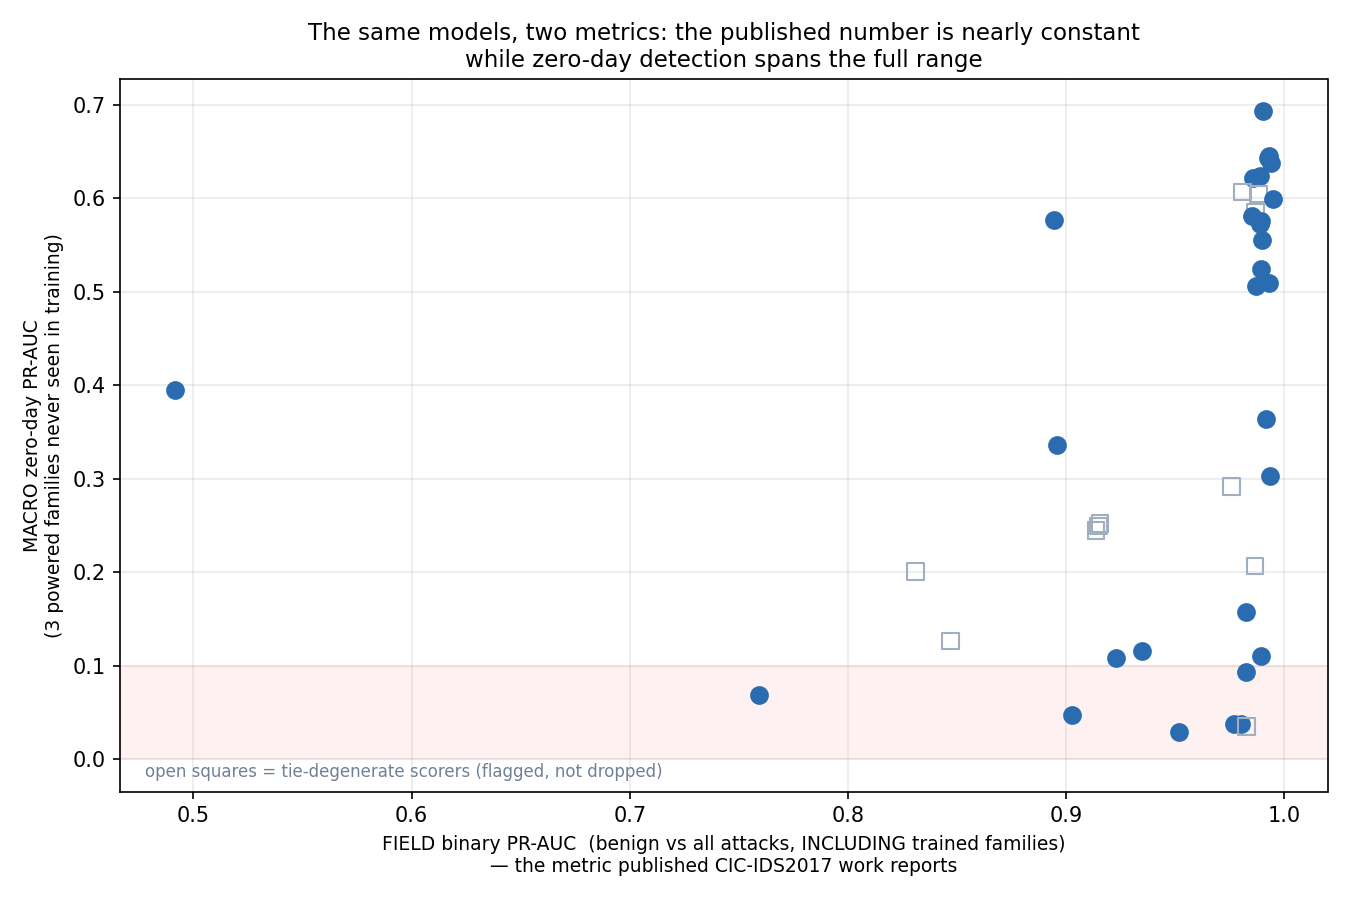
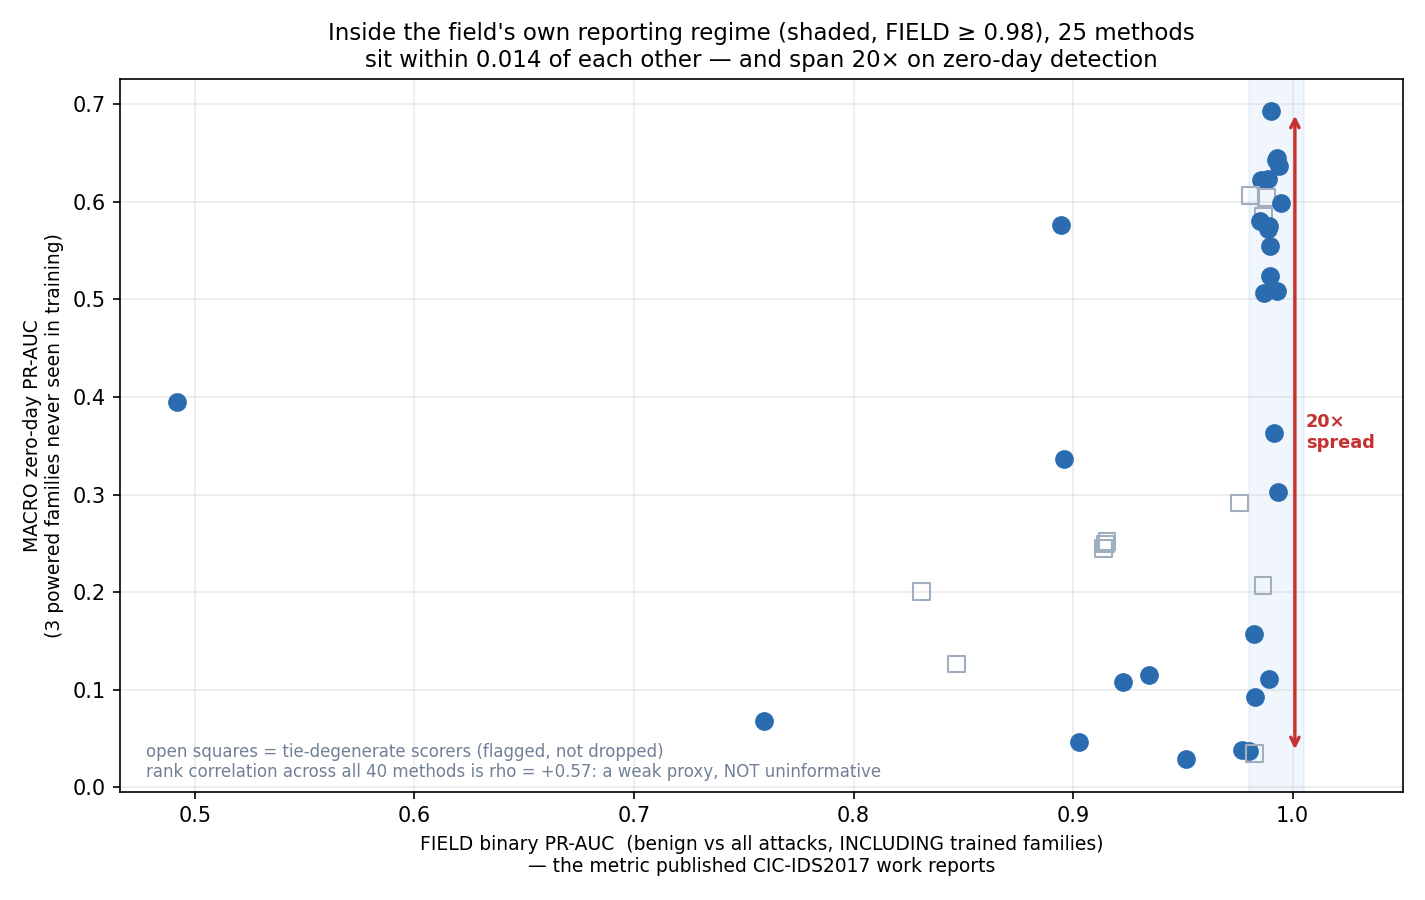
fix(spine): scope the figure to the field's own reporting regime
The previous title claimed 'the published number is nearly constant' while the x-axis
ran to 0.49 -- true of the shaded cluster, overclaimed across the whole plot. Now the
figure marks the regime the literature actually publishes in (FIELD >= 0.98) and states
what is true of it: 25 methods within 0.014 of each other, spanning 20x on zero-day.

The rho = +0.57 caveat is printed on the figure itself, so the plot cannot be lifted
into a talk without the limit that says it is a weak proxy rather than uninformative.

diff --git a/scripts/field_gap.py b/scripts/field_gap.py
@@ -279,21 +279,41 @@ def _figure(table):
         print(f"  (figure skipped: {e})")
         return
 
-    fig, ax = plt.subplots(figsize=(9, 6))
+    fig, ax = plt.subplots(figsize=(9.5, 6))
+
+    # The argument is about the regime the literature actually publishes in, so
+    # mark it rather than letting the eye average over anomaly scorers that never
+    # claim 99% in the first place.
+    CLUB = 0.98
+    ax.axvspan(CLUB, 1.005, color="#3182ce", alpha=0.07, zorder=0)
+    inside = [d for d in table if d["field"] >= CLUB]
+    if inside:
+        lo = min(d["macro"] for d in inside)
+        hi = max(d["macro"] for d in inside)
+        ax.annotate("", xy=(1.001, hi), xytext=(1.001, lo),
+                    arrowprops=dict(arrowstyle="<->", color="#c53030", lw=1.6))
+        ax.text(1.006, (lo + hi) / 2, f"{hi/max(lo,1e-9):.0f}×\nspread",
+                fontsize=8.5, color="#c53030", va="center", ha="left", weight="bold")
+
     for d in table:
         deg = d["tie_degenerate"]
         ax.scatter(d["field"], d["macro"], s=64,
                    facecolor="none" if deg else "#2b6cb0",
                    edgecolor="#a0aec0" if deg else "#2b6cb0",
                    marker="s" if deg else "o", zorder=3)
-    ax.axhspan(0, 0.1, color="#e53e3e", alpha=0.07, zorder=0)
+
     ax.set_xlabel("FIELD binary PR-AUC  (benign vs all attacks, INCLUDING trained families)\n"
                   "— the metric published CIC-IDS2017 work reports", fontsize=9)
     ax.set_ylabel("MACRO zero-day PR-AUC\n(3 powered families never seen in training)", fontsize=9)
-    ax.set_title("The same models, two metrics: the published number is nearly constant\n"
-                 "while zero-day detection spans the full range", fontsize=11)
+    ax.set_title(f"Inside the field's own reporting regime (shaded, FIELD ≥ {CLUB}), "
+                 f"{len(inside)} methods\nsit within {max(d['field'] for d in inside)-min(d['field'] for d in inside):.3f} "
+                 f"of each other — and span {hi/max(lo,1e-9):.0f}× on zero-day detection",
+                 fontsize=11)
+    ax.set_xlim(right=1.05)
     ax.grid(alpha=0.25, zorder=0)
-    ax.text(0.02, 0.02, "open squares = tie-degenerate scorers (flagged, not dropped)",
+    ax.text(0.02, 0.02,
+            "open squares = tie-degenerate scorers (flagged, not dropped)\n"
+            "rank correlation across all 40 methods is rho = +0.57: a weak proxy, NOT uninformative",
             transform=ax.transAxes, fontsize=8, color="#718096")
     fig.tight_layout()
     outp = os.path.join(paths.FIGURES, "field_gap.png")
